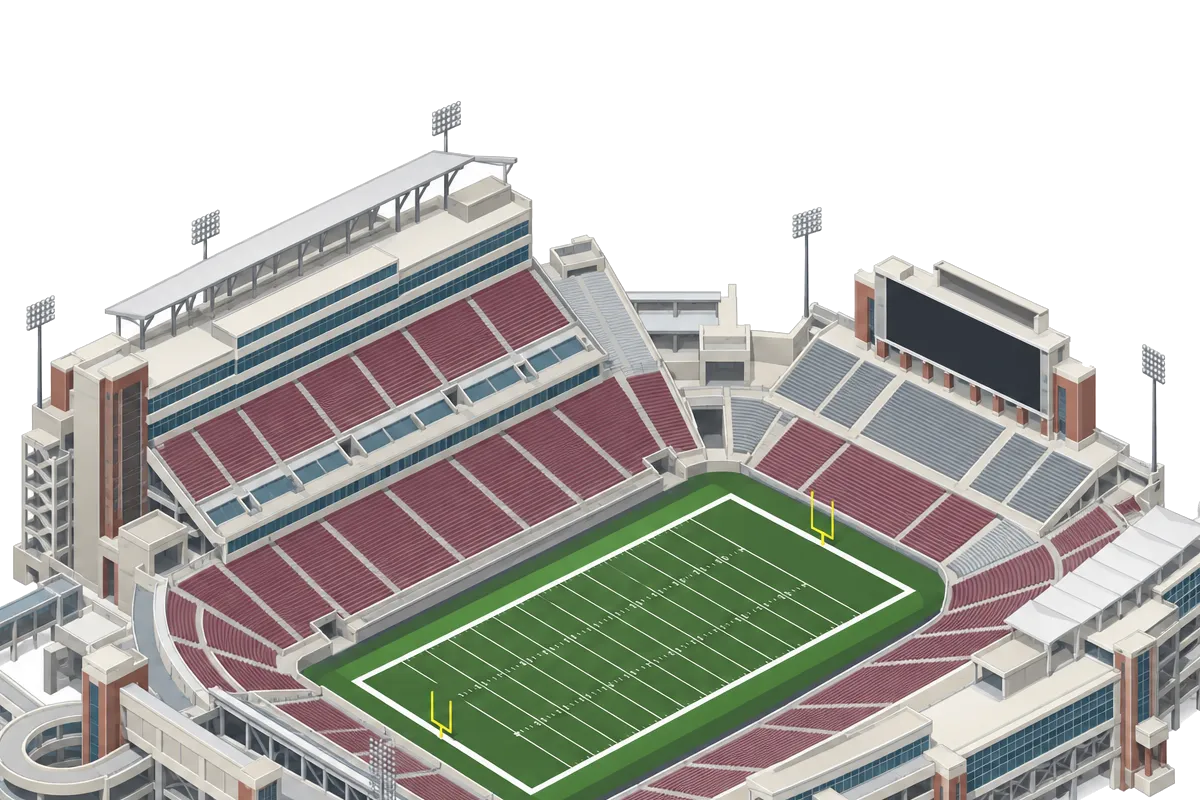
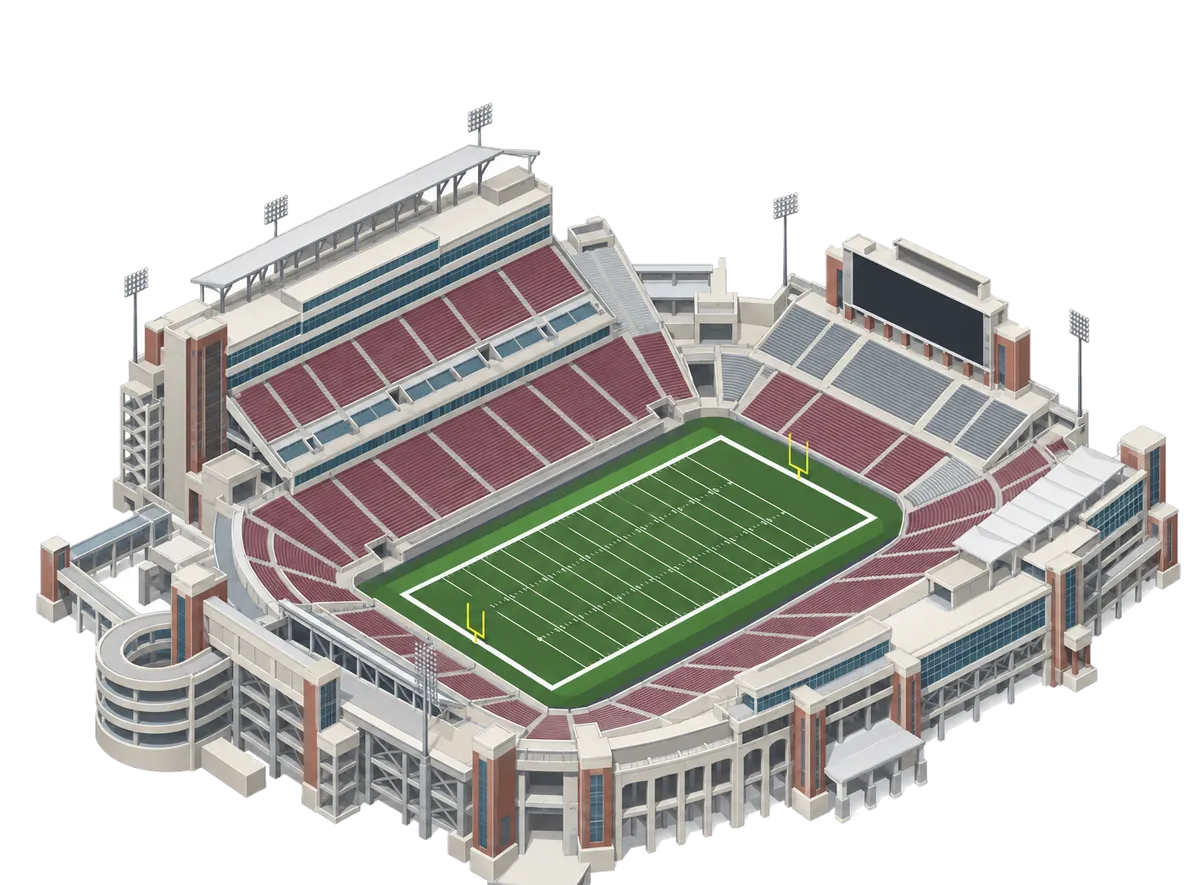
Home hero: wider crop, whole stadium in view; the narrow crop kept
Jason, 2026-09-11: "yes, do the wider crop, but keep this as well in case i
want to come back to it." The cut-out renders are now cropped 1416 x 944 from
x=60 (was 1200 x 720 from x=180) with 100px of transparent air on top,
written at 1200 x 885, so at the 300px hero nearly the whole stadium shows.
The previous crops are kept in art/hero/versions/cutout-narrow/ with a README
naming commit aeffe37 and how to switch back (copy three files; no CSS moves).

diff --git a/art/hero/versions/cutout-narrow/README.md b/art/hero/versions/cutout-narrow/README.md
@@ -1,0 +1,12 @@
+# Hero crops - "cutout-narrow" (kept on Jason's word, 2026-09-11)
+
+"yes, do the wider crop, but keep this as well in case i want to come back to it."
+
+These three are the hero images as shipped in commit `aeffe37` ("Home hero: stadiums cut out onto
+the page, taller, text below it"): each source render in `art/hero/` keyed out of its white
+background (flood fill from the edges, threshold 244, softened edge), then cropped
+`left 180, top 0, 1200 x 720` with 80px of transparent air added on top -> 1200 x 800 WebP with alpha.
+
+To go back: copy these three files over `public/hero/hero-1..3.webp`, ship, commit. The CSS that
+went with them (300px hero, `object-position: 50% 0%`, fade on the bottom 28%) is unchanged by the
+wider crop, so nothing else moves.
